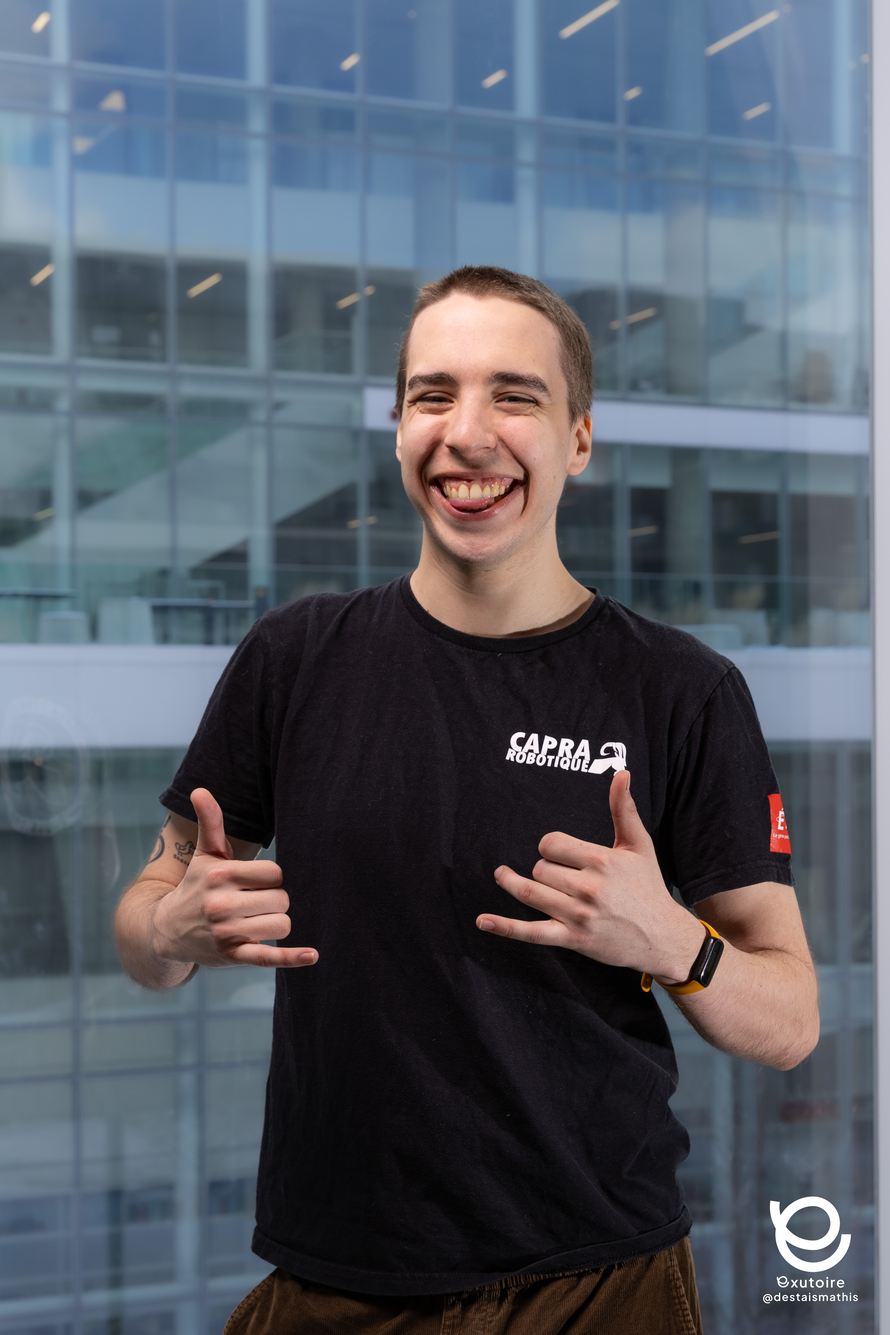
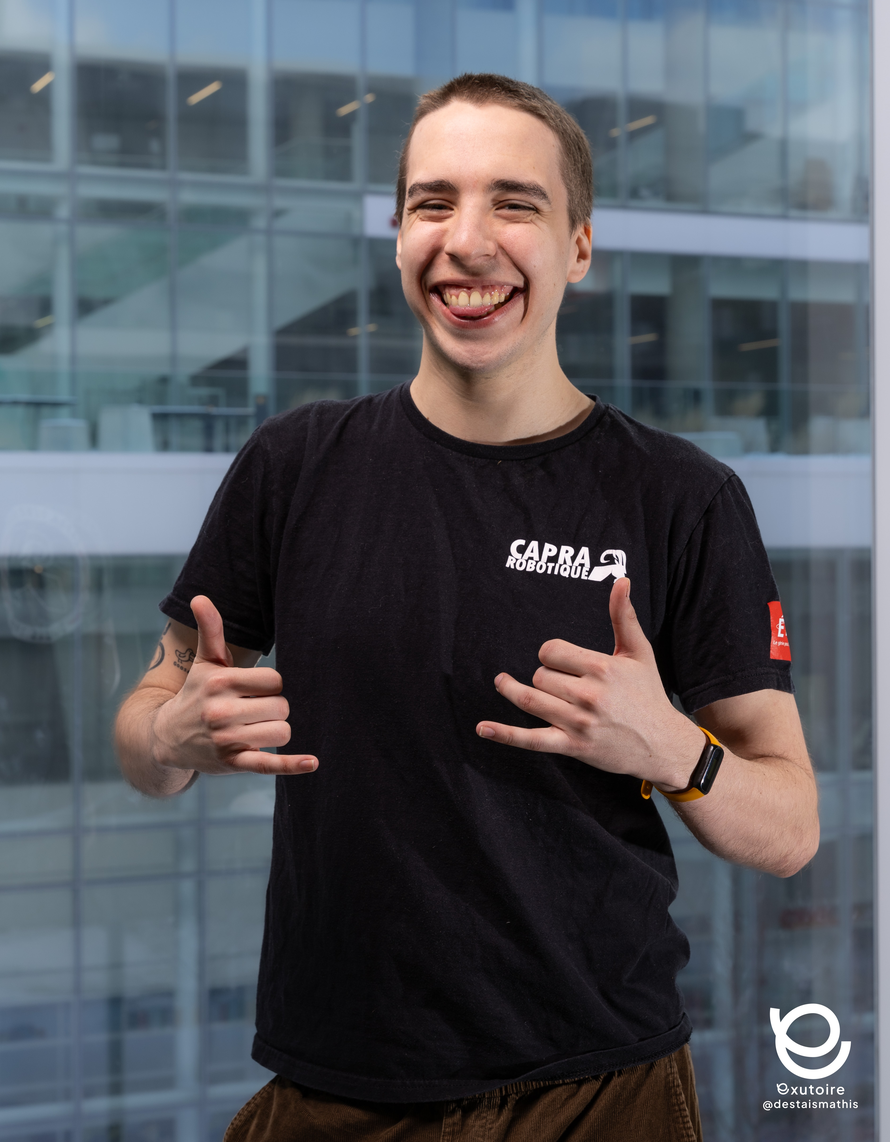
update crazy pictures

diff --git a/src/components/MemberItemComponent.vue b/src/components/MemberItemComponent.vue
@@ -1,29 +1,69 @@
 <script setup lang="ts">
-defineProps<{
+import { ref, computed } from 'vue';
+
+const props = defineProps<{
   name: string;
   img: string;
   program: string;
   title: string;
   link: string | undefined;
 }>();
+
+const isHovered = ref(false);
+const crazyExists = ref(false);
+
+const crazySrc = computed(() => {
+  return props.img.replace(/(\.\w+)$/, '-crazy$1');
+});
+
+const preloadImage = new Image();
+preloadImage.src = crazySrc.value;
+preloadImage.onload = () => {
+  crazyExists.value = true;
+};
+
+const currentSrc = computed(() => {
+  return isHovered.value && crazyExists.value ? crazySrc.value : props.img;
+});
+
+// eslint-disable-next-line jsdoc/require-jsdoc
+function handleMouseEnter() {
+  isHovered.value = true;
+}
+
+// eslint-disable-next-line jsdoc/require-jsdoc
+function handleMouseLeave() {
+  isHovered.value = false;
+}
 </script>
 
 <template>
   <div class="mt-4 pt-2">
     <div class="flex flex-col items-center text-center rounded-full p-3 py-4">
       <a v-if="link" :href="link" target="_blank" class="rounded-full">
-        <div class="member-image-parent">
+        <div
+          class="member-image-parent"
+          @mouseenter="handleMouseEnter"
+          @mouseleave="handleMouseLeave"
+        >
           <img
-            :src="img"
-            class="rounded-full h-64 w-64 object-cover shadow-md member-image"
+            :src="currentSrc"
+            class="shadow-md member-image"
+            :class="{ zoomed: isHovered }"
             alt="capra member"
           />
         </div>
       </a>
-      <div v-else class="member-image-parent">
+      <div
+        v-else
+        class="member-image-parent"
+        @mouseenter="handleMouseEnter"
+        @mouseleave="handleMouseLeave"
+      >
         <img
-          :src="img"
-          class="rounded-full h-64 w-64 object-cover shadow-md member-image"
+          :src="currentSrc"
+          class="shadow-md member-image"
+          :class="{ zoomed: isHovered }"
           alt="capra member"
         />
       </div>
@@ -41,16 +81,26 @@ defineProps<{
 .member-title {
   font-size: 18px;
 }
+
 .member-image-parent {
   width: 256px;
   height: 256px;
   border-radius: 50%;
   overflow: hidden;
 }
+
 .member-image {
   width: 100%;
   height: auto;
   display: block;
   transform: scale(1.2);
+  transform-origin: center;
+  transition:
+    transform 0.2s ease-in-out,
+    transform-origin 0.2s ease-in-out;
+}
+
+.member-image.zoomed {
+  transform: scale(1);
 }
 </style>
